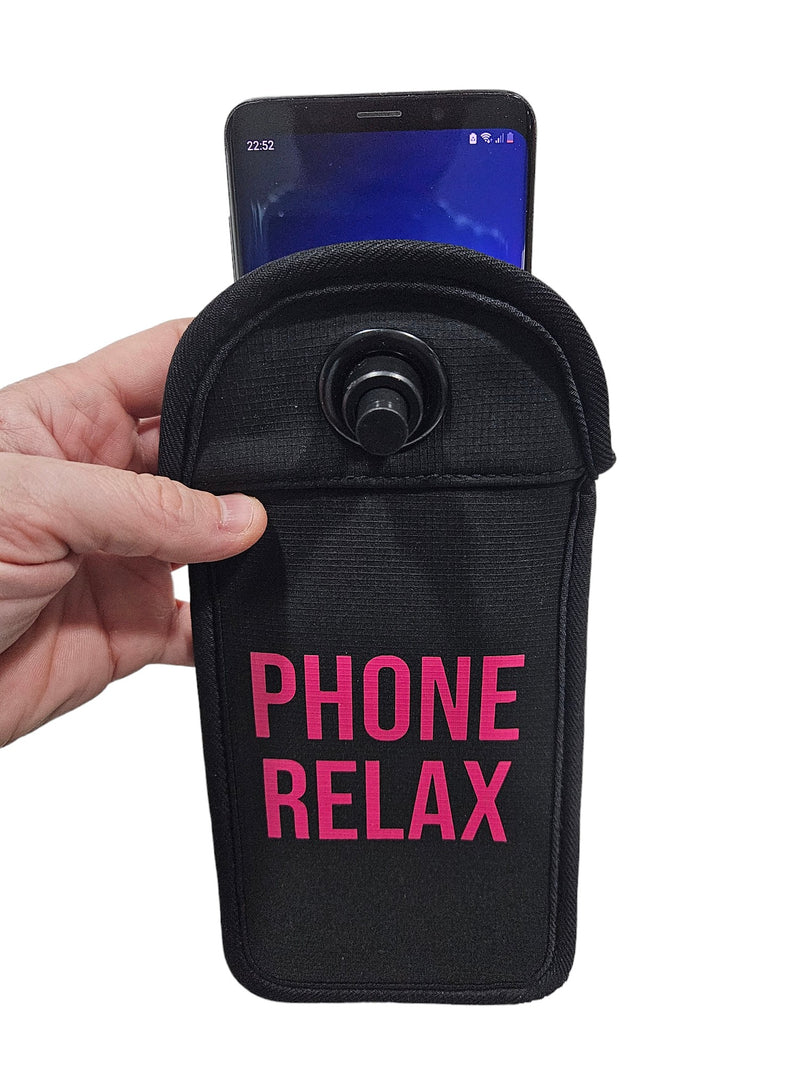
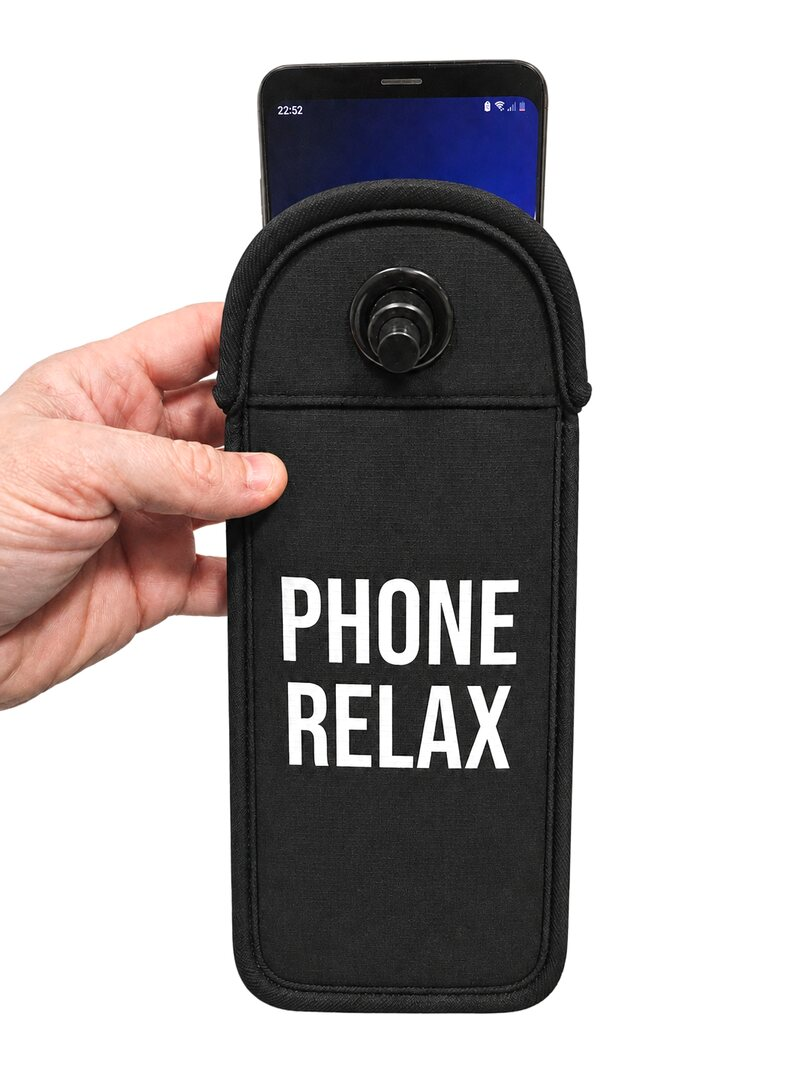
Imágenes de pasos con fondo blanco y texto blanco, y dirección C/ Carrasqueta, 14 en toda la web y los presupuestos

Changed region(s): [[0.0, 0.0309, 0.7812, 0.9588]]

diff --git a/app/models/quote.rb b/app/models/quote.rb
@@ -5,7 +5,7 @@ class Quote < ApplicationRecord
   COMPANY = {
     legal_name: "Drop Point Systems S.L.U.",
     tax_id: "B02631976",
-    address_lines: [ "Calle Carrasqueta Nº14", "P.I. Salinetas", "03610 Petrer (Alicante)" ],
+    address_lines: [ "C/ Carrasqueta, 14", "Pol. Ind. Salinetas", "Petrer 03610 (Alicante) España" ],
     phone: "965371962",
     email: "info@phonerelax.com", # comprobantes de transferencia
     footer_email: "info@phonerelax.com", # correo público del pie del PDF
